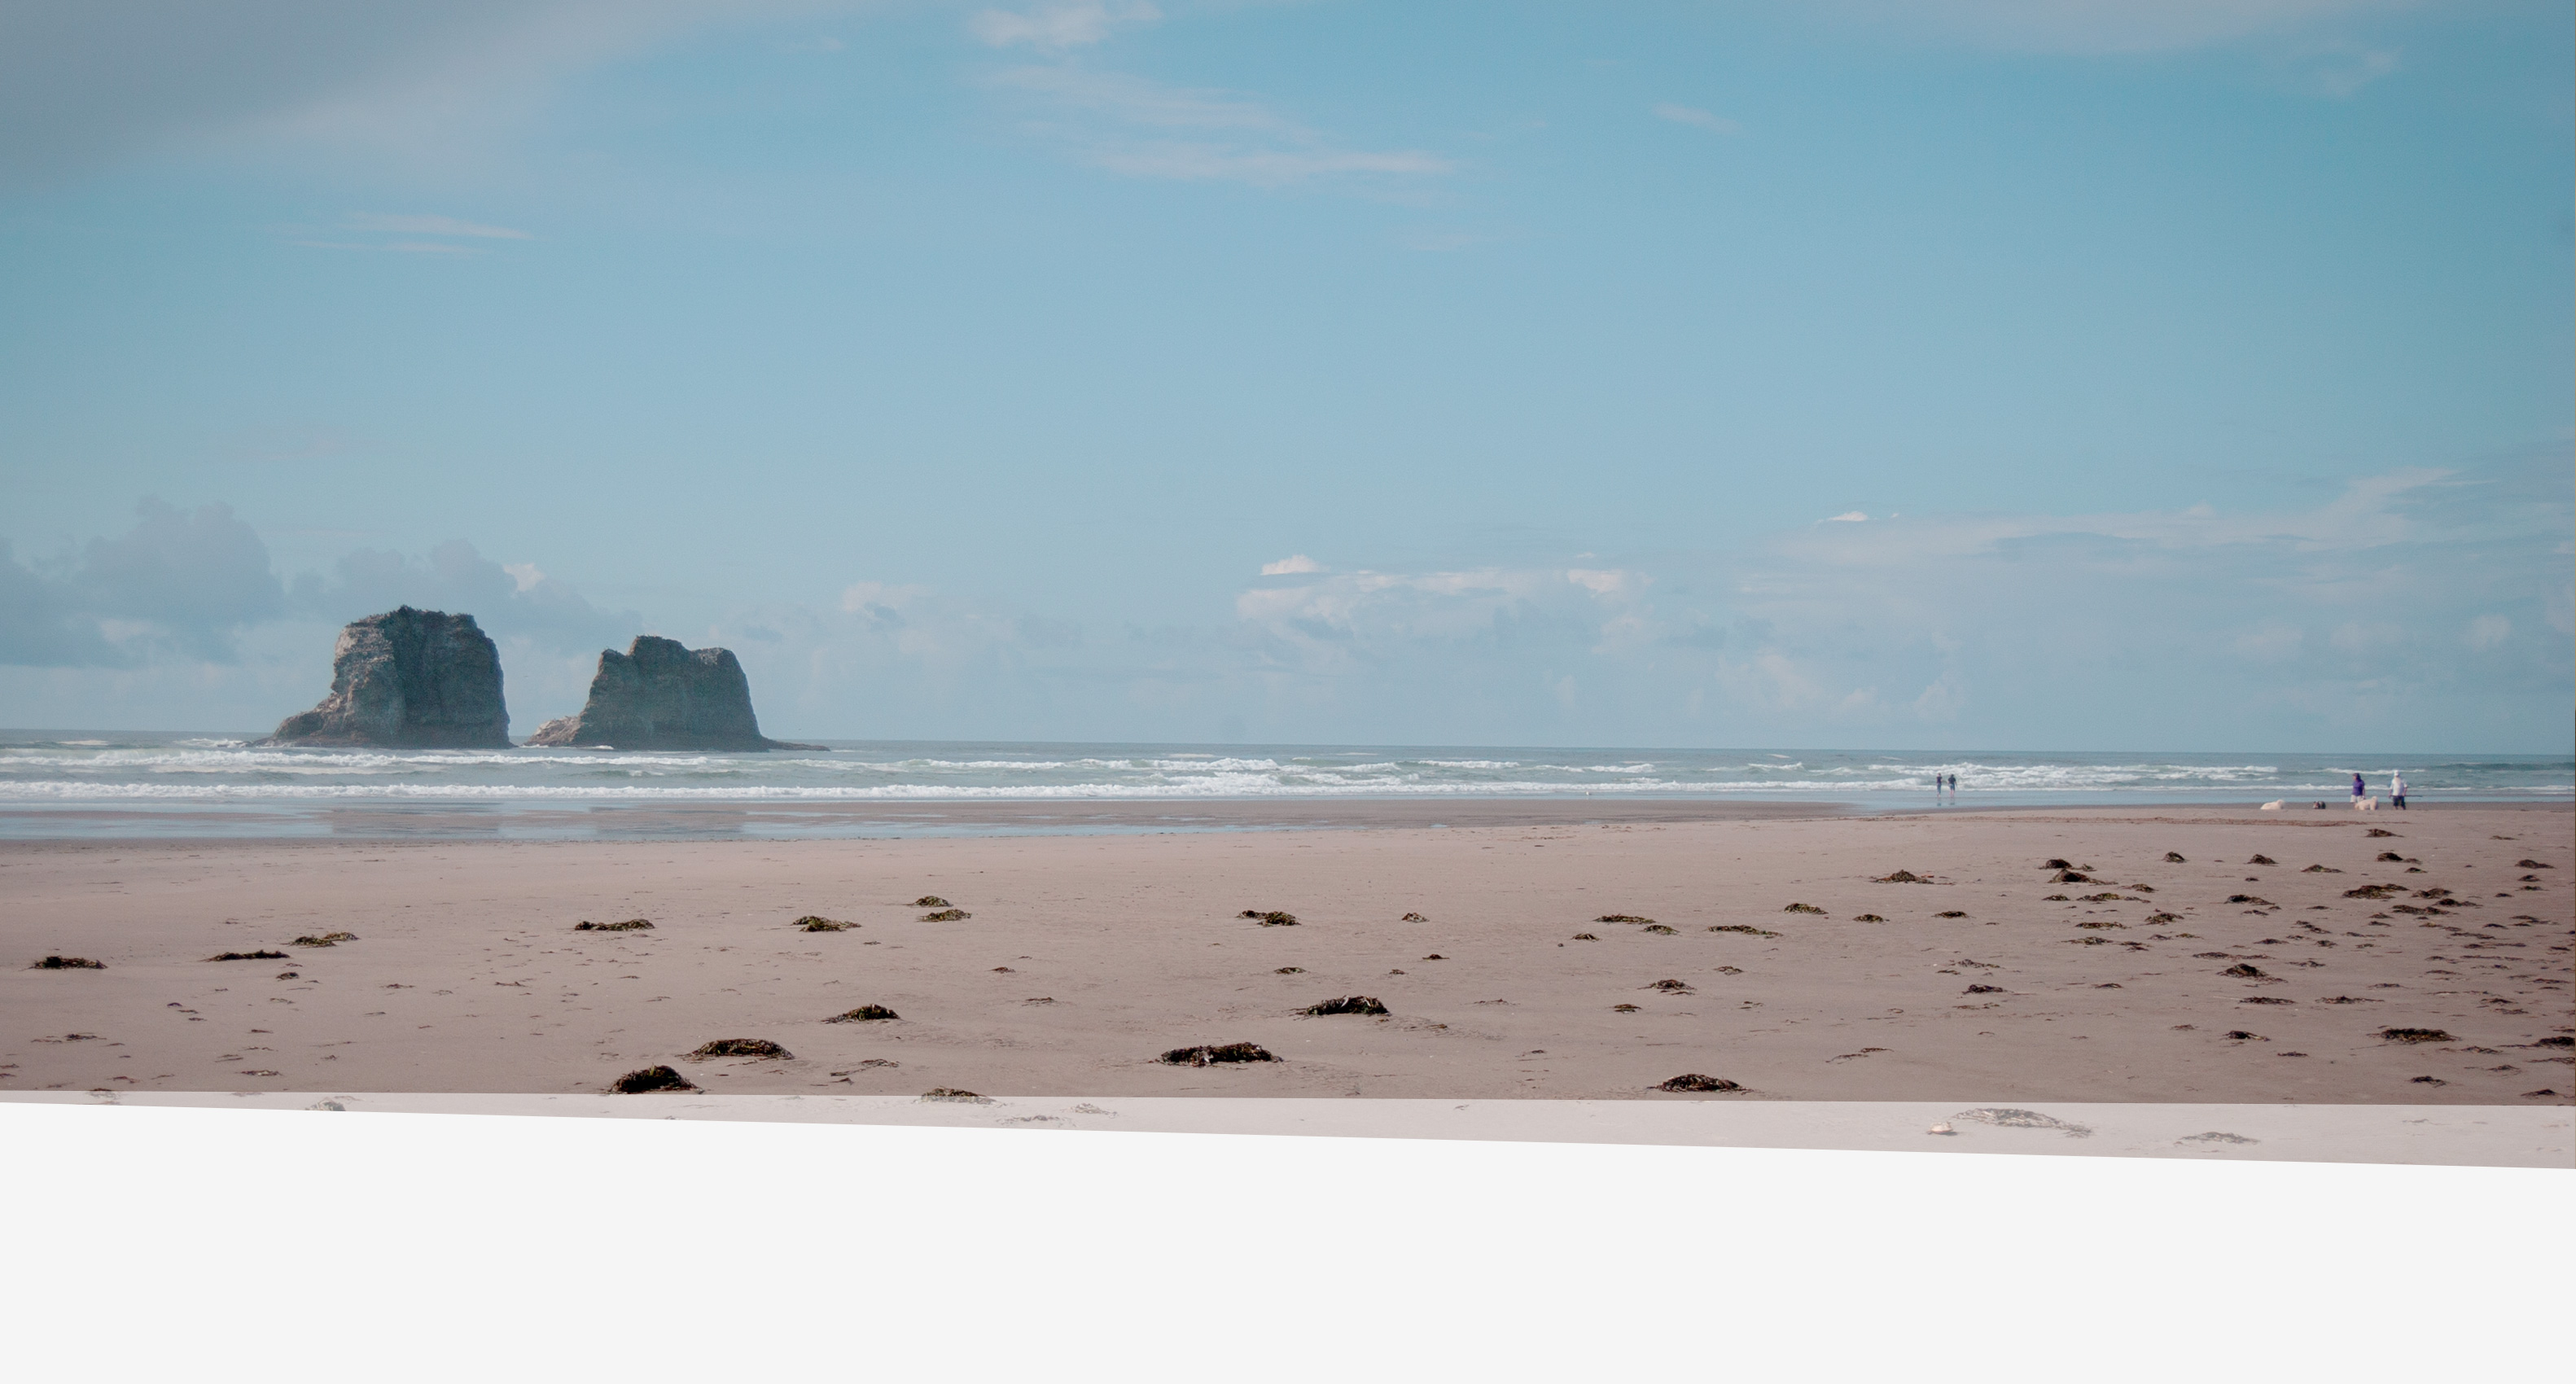
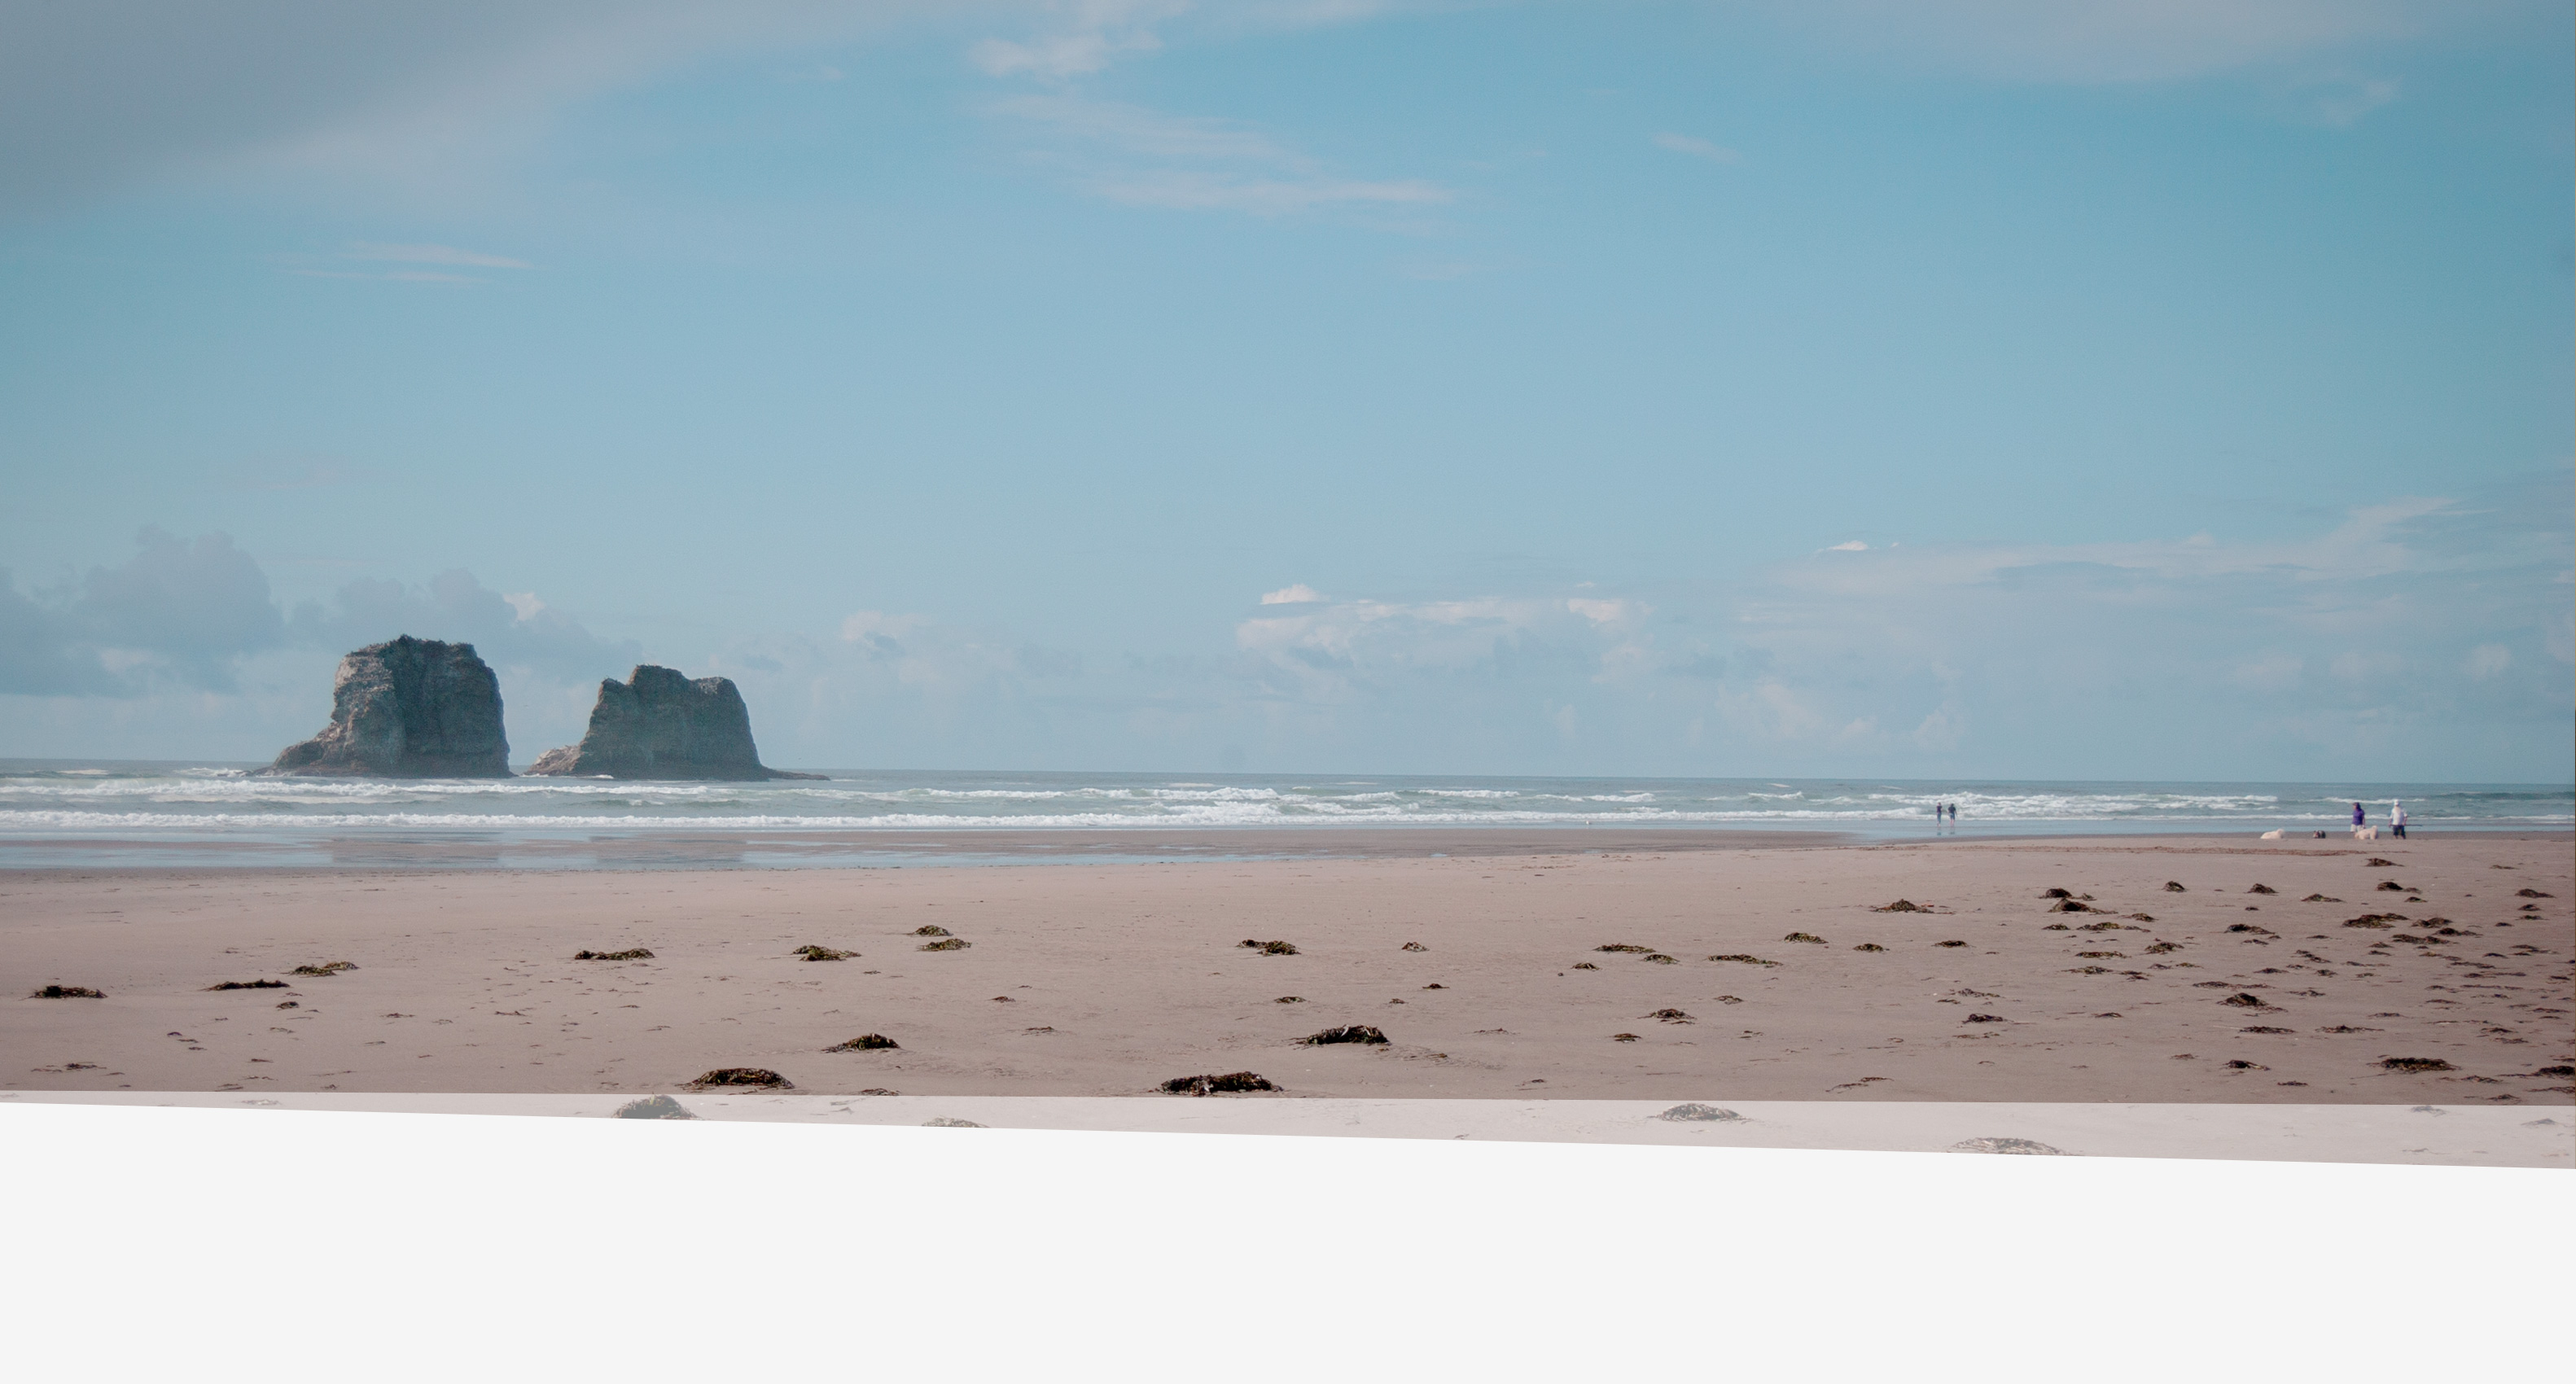
adjusting background images

diff --git a/assets/css/style-mobile.css b/assets/css/style-mobile.css
@@ -82,7 +82,7 @@
 
 	#banner {
 		padding: 4em 0;
-		background-image: url("../images/background-3.jpg");
+		background-image: url("../images/background-mobile-1.jpg");
 	}
 
 		#banner h2 {
